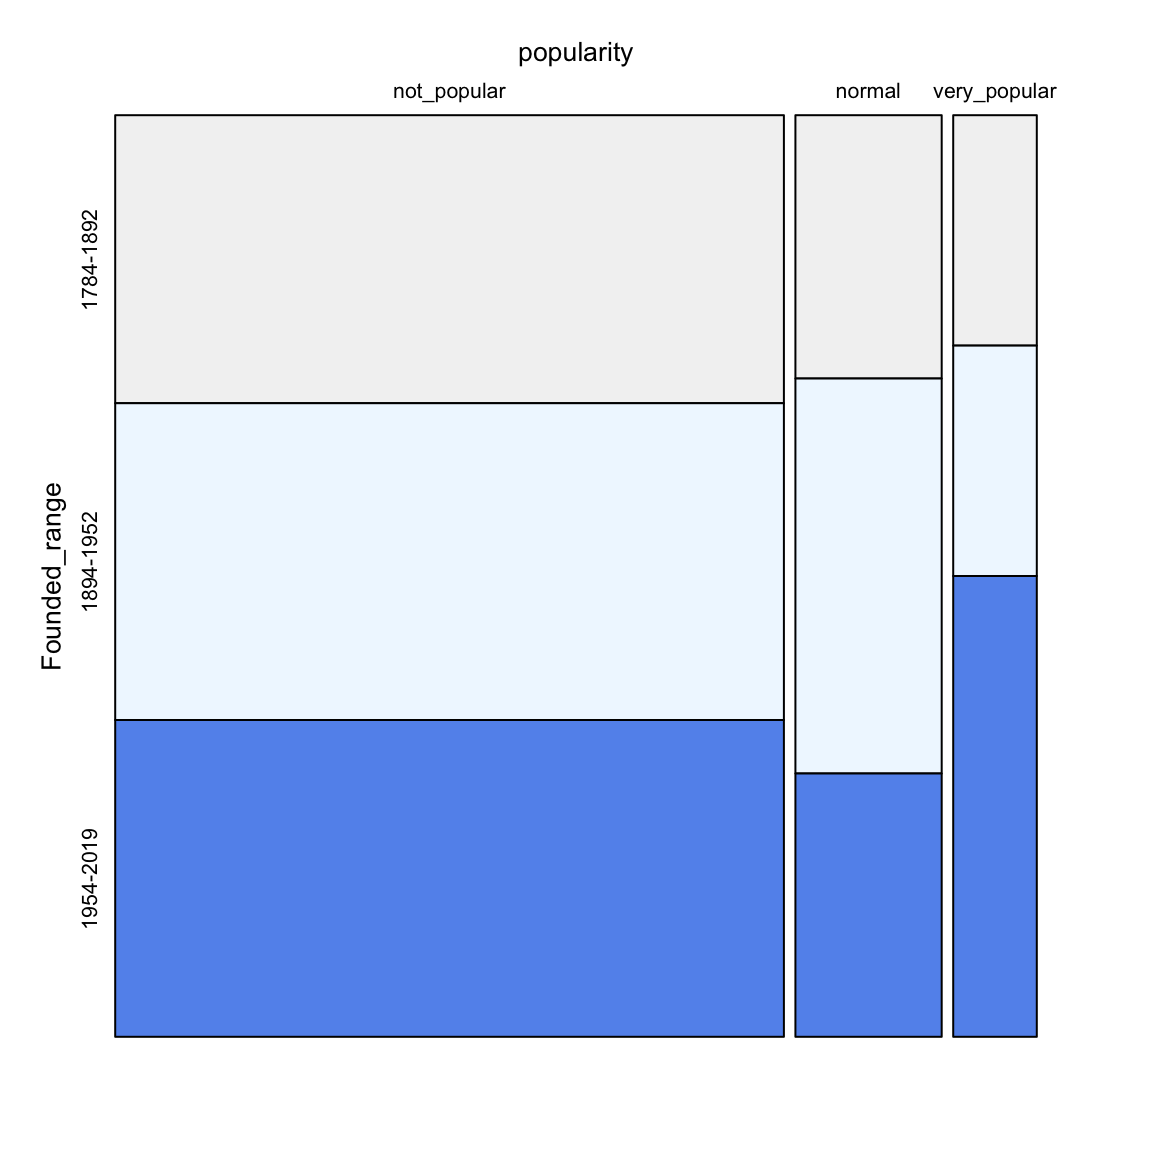
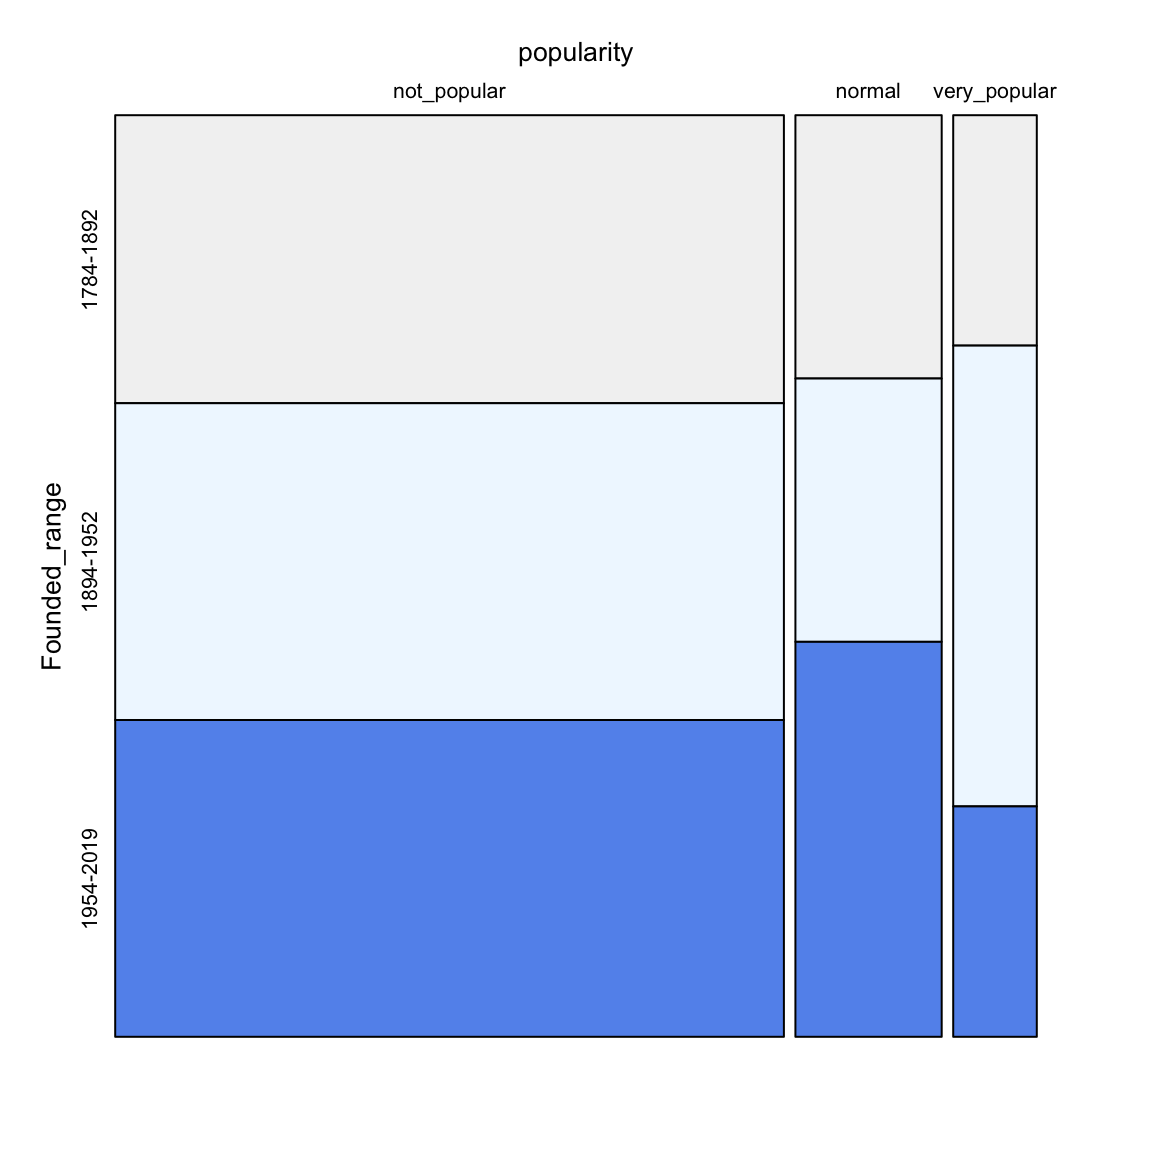
added comments on results plots

Changed region(s): [[0.6875, 0.5, 0.9062, 0.7188]]

diff --git a/docs/results.html b/docs/results.html
@@ -24,7 +24,7 @@
 <meta name="author" content="Jingwen Du, Kassiani Papasotiriou" />
 
 
-<meta name="date" content="2020-12-03" />
+<meta name="date" content="2020-12-04" />
 
   <meta name="viewport" content="width=device-width, initial-scale=1" />
   <meta name="apple-mobile-web-app-capable" content="yes" />
@@ -86,7 +86,11 @@
 <li class="chapter" data-level="4.4" data-path="missing-values.html"><a href="missing-values.html#interpreting-the-results"><i class="fa fa-check"></i><b>4.4</b> Interpreting the results</a></li>
 <li class="chapter" data-level="4.5" data-path="missing-values.html"><a href="missing-values.html#dealing-with-missing-values"><i class="fa fa-check"></i><b>4.5</b> Dealing with missing values</a></li>
 </ul></li>
-<li class="chapter" data-level="5" data-path="results.html"><a href="results.html"><i class="fa fa-check"></i><b>5</b> Results</a></li>
+<li class="chapter" data-level="5" data-path="results.html"><a href="results.html"><i class="fa fa-check"></i><b>5</b> Results</a><ul>
+<li class="chapter" data-level="5.1" data-path="results.html"><a href="results.html#average-ownership-per-year-by-industry"><i class="fa fa-check"></i><b>5.1</b> Average ownership per year by industry</a></li>
+<li class="chapter" data-level="5.2" data-path="results.html"><a href="results.html#exploring-the-relationship-of-founding-date-vs-popularity-level"><i class="fa fa-check"></i><b>5.2</b> Exploring the relationship of founding date vs popularity level</a></li>
+<li class="chapter" data-level="5.3" data-path="results.html"><a href="results.html#a-deeper-look-into-the-very_popular-companies"><i class="fa fa-check"></i><b>5.3</b> A deeper look into the <code>very_popular</code> companies</a></li>
+</ul></li>
 <li class="chapter" data-level="6" data-path="interactive-component.html"><a href="interactive-component.html"><i class="fa fa-check"></i><b>6</b> Interactive component</a></li>
 <li class="chapter" data-level="7" data-path="conclusion.html"><a href="conclusion.html"><i class="fa fa-check"></i><b>7</b> Conclusion</a></li>
 <li class="divider"></li>
@@ -110,14 +114,51 @@
             <section class="normal" id="section-">
 <div id="results" class="section level1">
 <h1><span class="header-section-number">Chapter 5</span> Results</h1>
-<p>###how ownership change by industry sectors over certain time period</p>
+<p>The main focus of our analysis will examine Robintrack’s users stock holding of the S&amp;P500 companies between August 2018 - August 2020. We will explore how price, market cap, industry and founding year affect user’s holding.</p>
+<div id="average-ownership-per-year-by-industry" class="section level2">
+<h2><span class="header-section-number">5.1</span> Average ownership per year by industry</h2>
+<p>The first transformed dataframe the average user’s stock holding per industry for 2018, 2019 and 2020.</p>
+<p>In order explore the shifts in the most popular industries between 2018-2020, we have created a Clevland plot for which we have sorted the y axis in descending order for the users holding on 2020.</p>
 <p><img src="finalproj_files/figure-html/qplot51-1.png" width="960" /></p>
+<p>Some insights that we can extract from the above plot are:</p>
+<ul>
+<li><p>We can see a jump in users holding for across all industries between 2018/2019 and 2020. A possible explanation is that retail trading has taken off in 2020 amid the coronavirus downturn that many young traders saw as an entry point into the world of investing.</p></li>
+<li><p>This jump is especially evident in the following industries;<code>Comunication Services</code>, <code>Consumer Discretionary</code>,<code>Industrials</code> and <code>Energy</code>.</p></li>
+<li><p>The largest jump in user’s holding between 2019 and 2020 was in the <code>Consumer Discretionary</code> industry. A possible explanation could be the increased interest of the Amazon (AMZN) stock during the pandemic.</p></li>
+<li><p>Even though <code>Information Technology</code> industry had the second highest average user’s holding in 2018 and 2019, in 2020 it dropped to 4th place.</p></li>
+<li><p>Similarly in 2018 &amp; 2019 <code>Energy</code> industry was less attractive than <code>Consumer Staples</code>. However, in 2020 <code>Energy</code> attracted more stock holders. ``</p></li>
+<li><p>Another evident trend is that <code>Utilities</code>, <code>Materials</code> and <code>Real Estate</code> has similar average user’s holding between 2018 and 2019. On the other hand the rest of the industried have experienced and increase in user’s holding between these two years.</p></li>
+<li><p>Moreover, <code>Consumer Staples</code> and <code>Industrials</code> industries have almost the same stock holding between 2018 and 2019. That trend was broken in 2020 when <code>Industrials</code> almost tripled in user’s holding compared to <code>Consumer Staples</code>.</p></li>
+</ul>
+</div>
+<div id="exploring-the-relationship-of-founding-date-vs-popularity-level" class="section level2">
+<h2><span class="header-section-number">5.2</span> Exploring the relationship of founding date vs popularity level</h2>
+<p>As mentioned in the data transformation section, we measure a stock’s popularity by averaging amount of user’s holding acrross 2018-2020. We assign each company to a popularilty group by using KMeans clustering(k=3) for the avergage user’s holding over those 3 years. The three popularity categories are; <code>not_popular</code>(n=473), <code>normal</code>(n=16) and <code>very_popular</code>(n=5).</p>
+<p>Moreover, as mentioned in the transformation section, we have also split the companies in three fouding dates ranges. We again used KMeans clustering(k=3) in order to group the S&amp;P500 companies in three age groups for which we recorded the minimum and maximum founding rate in each group as their label. More specifically the three founding ranges are;<code>1784-1892</code>(n=247),<code>1894-1952</code>(n=400), <code>1954-2019</code>(n=798).</p>
 <p><img src="finalproj_files/figure-html/qplot56-1.png" width="576" /></p>
+<p>In the above mosaic plot we can see that there is a correlation between the age of a company and its popularity. More specifically:</p>
+<ul>
+<li><p>We can see that for the less popular companies there is an equal amount of observations across all three founding ranges.</p></li>
+<li><p>When comparing the normal and the less popular companies we can see an increase in popularity as the founding date becomes more recent.</p></li>
+<li><p>Moreover, even though the oldest copanies are the ones that appear the least across the very popular companies, we can see that the medium founding range companies (<code>1894-1952</code>) are the the most across the <code>very_popular</code>.</p></li>
+<li><p>We would have been able to identify a positive correlation between how recently a company was founded and how popular the company is amongst Robinhood users. However this trend is broken in the <code>very_popular</code> companies.</p></li>
+</ul>
+<p>A possible explanation of the partial positive correlation between founding year and popularity could due to the fact that Robinhood’s average customer is young<a href="#fn1" class="footnote-ref" id="fnref1"><sup>1</sup></a> and therefore is more aware of the more recently founded companies.</p>
+</div>
+<div id="a-deeper-look-into-the-very_popular-companies" class="section level2">
+<h2><span class="header-section-number">5.3</span> A deeper look into the <code>very_popular</code> companies</h2>
 <p><img src="finalproj_files/figure-html/qplot57-1.png" width="1920" /></p>
 <p><img src="finalproj_files/figure-html/qplot59-1.png" width="1920" /></p>
 <p><img src="finalproj_files/figure-html/qplot58-1.png" width="1920" /></p>
 <p><img src="finalproj_files/figure-html/qplot60-1.png" width="960" /></p>
 
+</div>
+</div>
+<div class="footnotes">
+<hr />
+<ol start="1">
+<li id="fn1"><p>According to <a href="https://www.nytimes.com/2020/07/08/technology/robinhood-risky-trading.html">this</a> article<a href="results.html#fnref1" class="footnote-back">↩</a></p></li>
+</ol>
 </div>
             </section>
 
